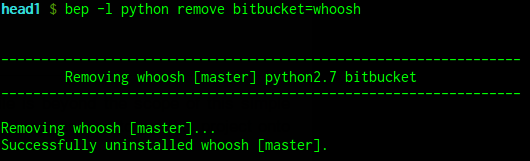
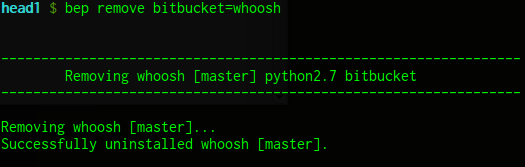
updated readme and imgs to go along w/ new version

Changed region(s): [[0.0, 0.3416, 1.0, 0.5901], [0.0, 0.7143, 0.6095, 0.9627], [0.0, 0.0, 0.701, 0.0932]]

diff --git a/README.md b/README.md
@@ -66,6 +66,13 @@ And to install a specific branch:
 
 ![](imgs/install_branch.png)
 
+Oops...as you can see, in order to install another branch of ipython under the same version of python, the branch of ipython that was just installed previously needs to be turned off first.  After doing so, then we can proceed with installing the specified branch of ipython.
+
+Note though, we can install a version of ipython under different version of python without needing to turn off anything because this will be the only version/branch of ipython installed under this version of python: 
+
+![](imgs/install_diff_lang_version_branch.png)
+
+
 ####NOTE, for all other command operations, the "pkg" is the only thing that needs to be specified, like so:
 ```
 # `pkg_type=pkg_name[^branch_name]`
@@ -79,9 +86,8 @@ For example:
 
 ![](imgs/update.png)
 
-![](imgs/turn_off.png)
-
 ![](imgs/remove.png)
+
 
 ###To update packages: 
 
